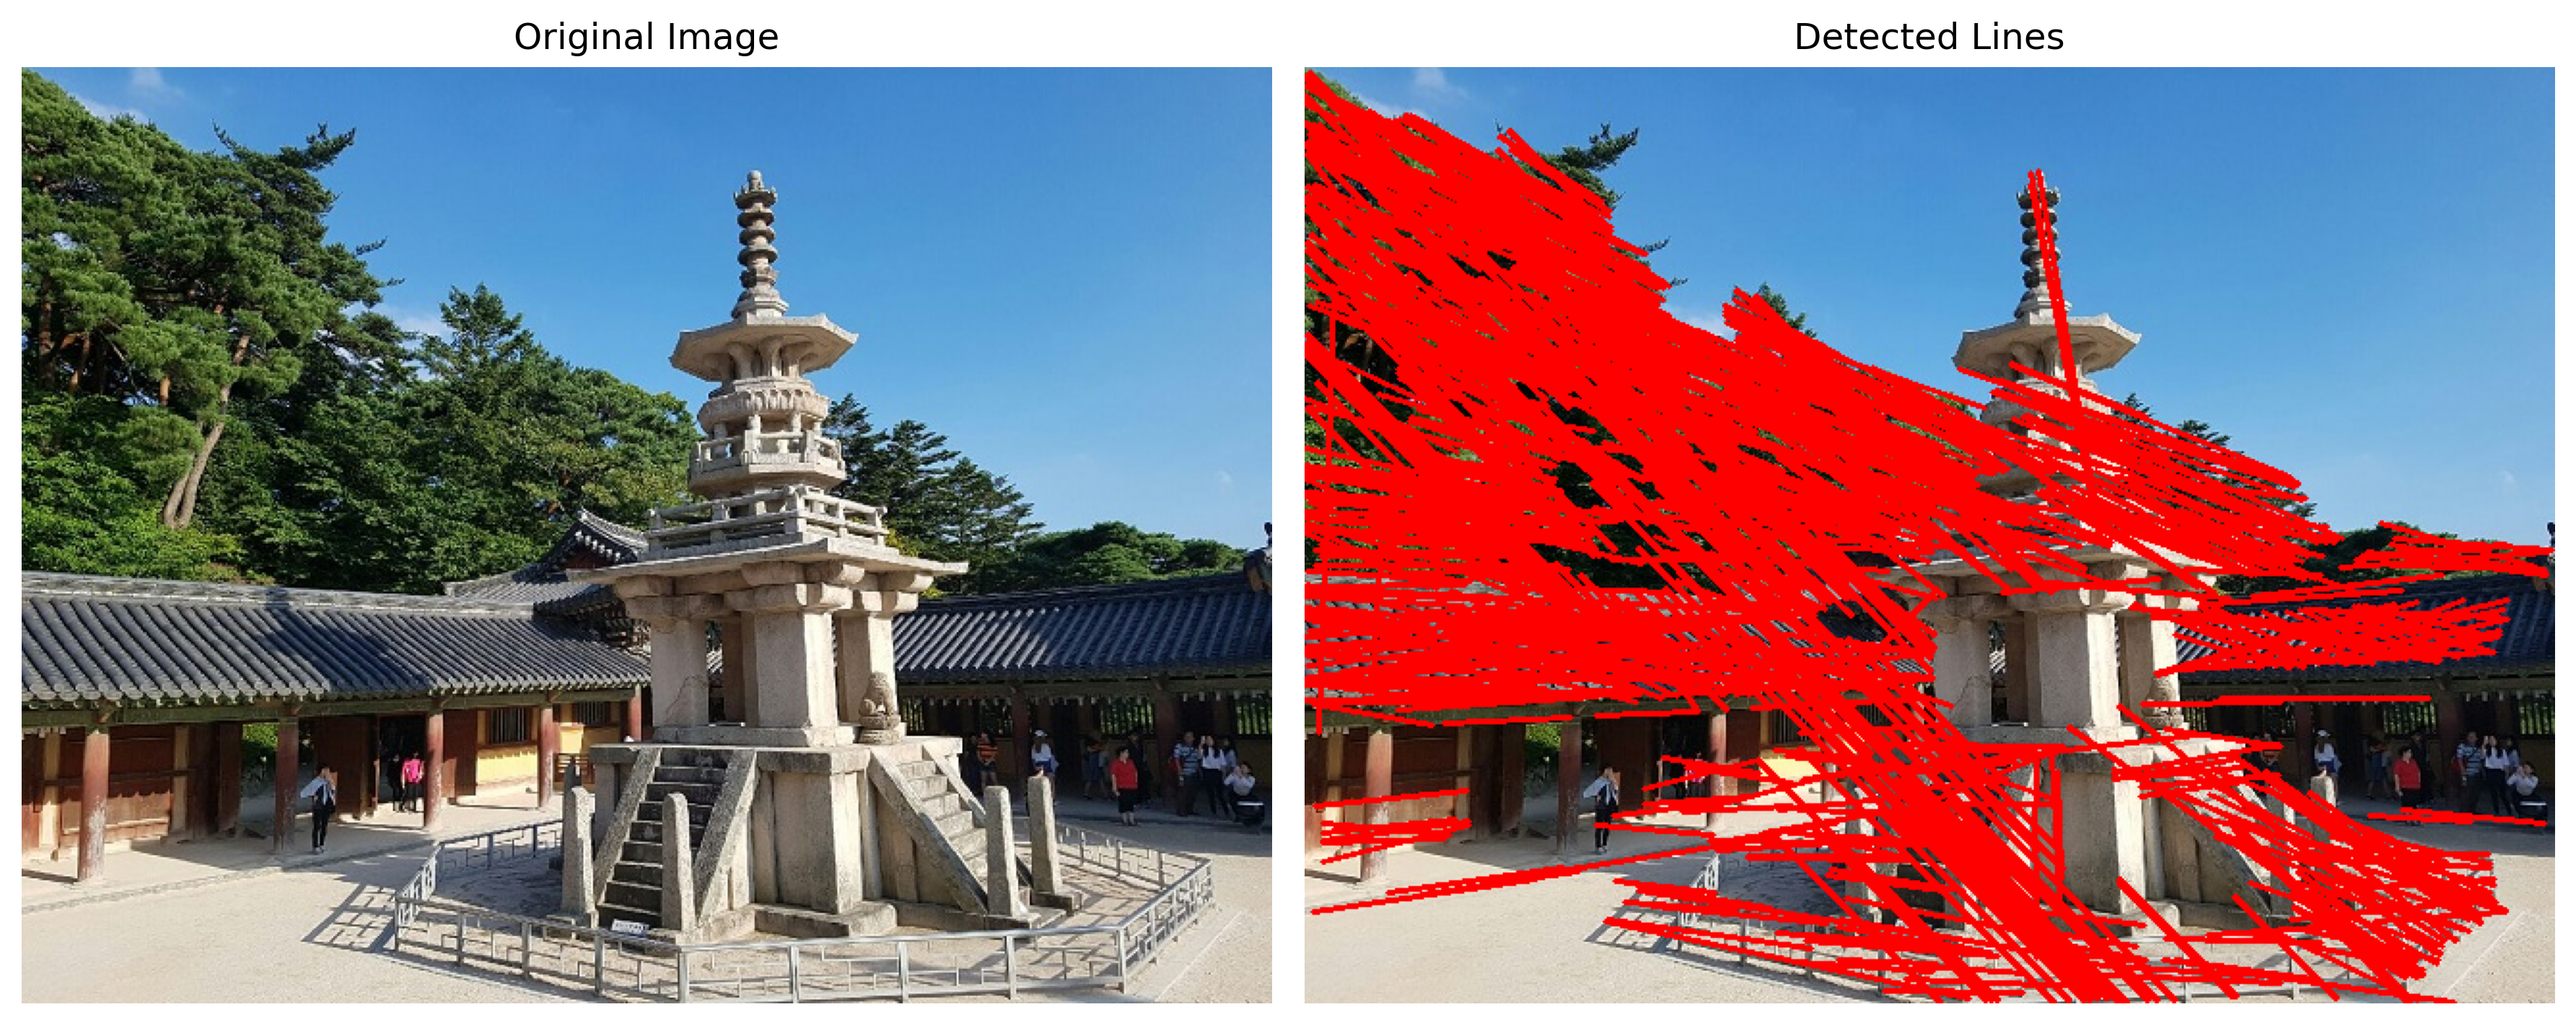
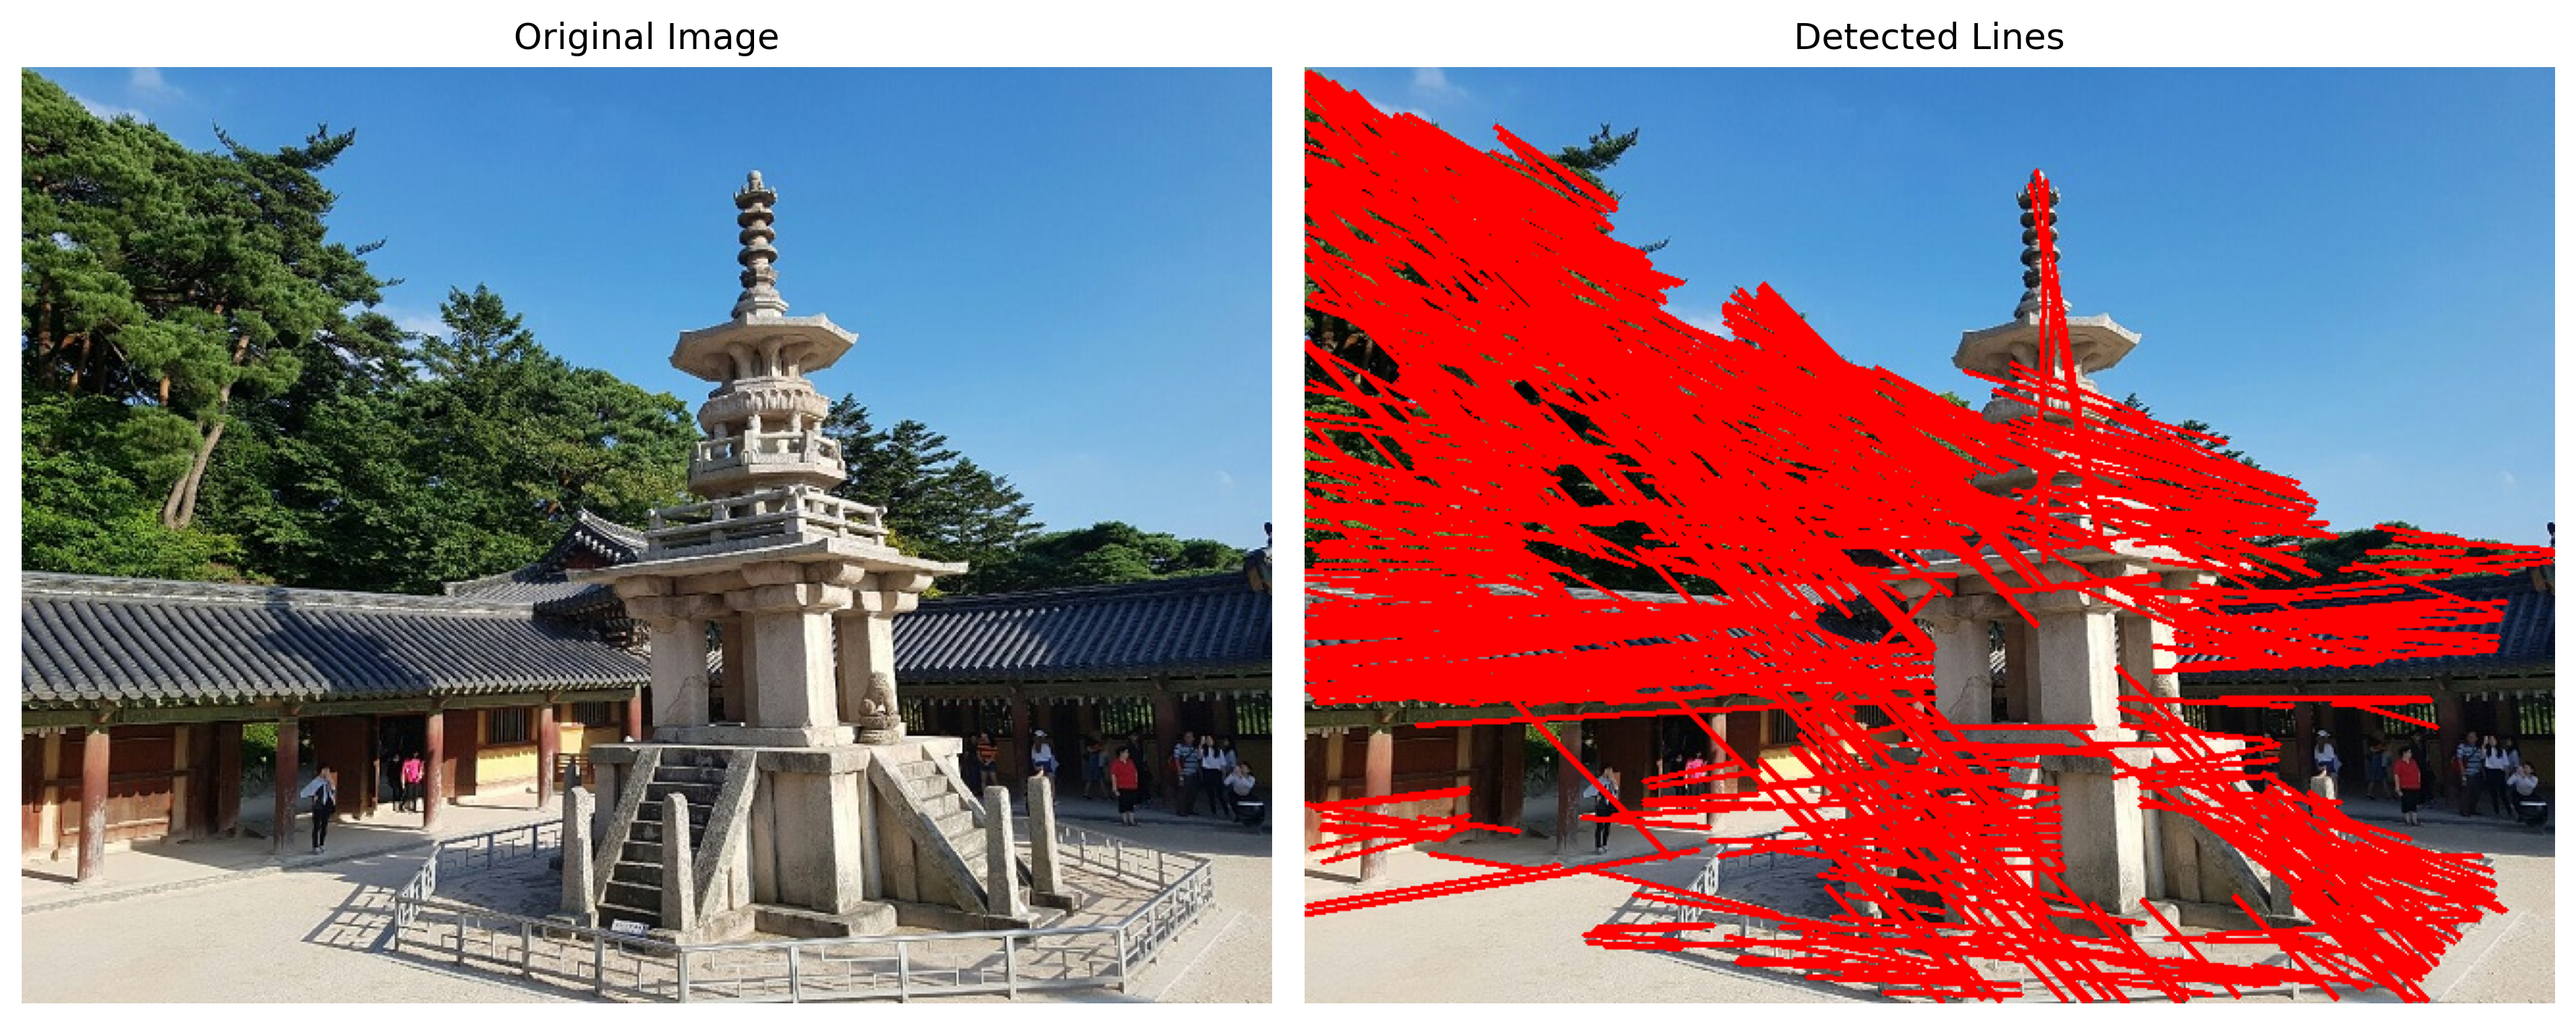
Update HoughLinesP parameters to improve line accuracy

Changed region(s): [[0.4975, 0.0619, 0.995, 0.9909], [0.4975, 0.867, 0.5597, 0.898], [0.7773, 0.1548, 0.8084, 0.1858]]

diff --git a/3주차_과제/02.CannyHough.py b/3주차_과제/02.CannyHough.py
@@ -27,12 +27,13 @@ img_line = img.copy()
 gray = cv.cvtColor(img, cv.COLOR_BGR2GRAY)
 
 # 2. Canny 에지 검출을 사용하여 에지 맵 생성 
-# 최소 임계값(100), 최대 임계값(200)을 넘어가는 얇고 선명한 테두리를 흰색 선으로 뽑아냅니다.
-edges = cv.Canny(gray, threshold1=100, threshold2=200)
+# 배경의 노이즈를 줄이되 주요 윤곽선을 놓치지 않도록 임계값을 (50, 150)으로 조절합니다.
+edges = cv.Canny(gray, threshold1=50, threshold2=150)
 
 # 3. 허프 변환을 사용하여 이미지에서 직선 검출
-# 확률적 허프 변환(HoughLinesP)으로, 간격 허용도(maxLineGap)와 최소 길이(minLineLength)에 맞는 직선의 좌표들을 얻어옵니다.
-lines = cv.HoughLinesP(edges, rho=1, theta=np.pi/180, threshold=100, minLineLength=50, maxLineGap=10)
+# 자잘한 선분(노이즈)을 배제하고 메인 형태의 긴 선분들을 정확히 잇기 위해 파라미터 성능을 개선합니다.
+# threshold(임계값: 200), minLineLength(최소 길이: 250), maxLineGap(끊어진 선분 사이 최대 허용 간격: 50) 설정
+lines = cv.HoughLinesP(edges, rho=1, theta=np.pi/180, threshold=200, minLineLength=250, maxLineGap=50)
 
 # 4. 검출된 직선을 원본 이미지에서 빨간색으로 표시
 # 직선이 단 1개라도 배열 데이터로 무사히 검출되었다면,

diff --git a/3주차_과제/README.md b/3주차_과제/README.md
@@ -134,12 +134,13 @@ img_line = img.copy()
 gray = cv.cvtColor(img, cv.COLOR_BGR2GRAY)
 
 # 2. Canny 에지 검출을 사용하여 에지 맵 생성 
-# 최소 임계값(100), 최대 임계값(200)을 넘어가는 얇고 선명한 테두리를 흰색 선으로 뽑아냅니다.
-edges = cv.Canny(gray, threshold1=100, threshold2=200)
+# 배경의 노이즈를 줄이되 주요 윤곽선을 놓치지 않도록 임계값을 (50, 150)으로 조절합니다.
+edges = cv.Canny(gray, threshold1=50, threshold2=150)
 
 # 3. 허프 변환을 사용하여 이미지에서 직선 검출
-# 확률적 허프 변환(HoughLinesP)으로, 간격 허용도(maxLineGap)와 최소 길이(minLineLength)에 맞는 직선의 좌표들을 얻어옵니다.
-lines = cv.HoughLinesP(edges, rho=1, theta=np.pi/180, threshold=100, minLineLength=50, maxLineGap=10)
+# 자잘한 선분(노이즈)을 배제하고 메인 형태의 긴 선분들을 정확히 잇기 위해 파라미터 성능을 개선합니다.
+# threshold(임계값: 200), minLineLength(최소 길이: 250), maxLineGap(끊어진 선분 사이 최대 허용 간격: 50) 설정
+lines = cv.HoughLinesP(edges, rho=1, theta=np.pi/180, threshold=200, minLineLength=250, maxLineGap=50)
 
 # 4. 검출된 직선을 원본 이미지에서 빨간색으로 표시
 # 직선이 단 1개라도 배열 데이터로 무사히 검출되었다면,
@@ -187,10 +188,10 @@ plt.close()
 ### 🔑 주요 코드 및 설명
 ```python
 # Canny 에지 검출 (threshold1, threshold2 파라미터 적용)
-edges = cv.Canny(gray, threshold1=100, threshold2=200)
+edges = cv.Canny(gray, threshold1=50, threshold2=150)
 
 # 허프 변환을 통한 직선 성분 추출
-lines = cv.HoughLinesP(edges, rho=1, theta=np.pi/180, threshold=100, minLineLength=50, maxLineGap=10)
+lines = cv.HoughLinesP(edges, rho=1, theta=np.pi/180, threshold=200, minLineLength=250, maxLineGap=50)
 ```
 * **`cv.Canny`**: 윤곽선을 깔끔하게 한 픽셀의 두께로 검출해 내는 함수입니다. 임계값(Threshold1, 2) 설정을 통해 확실한 강력한 경계만 추출하도록 조정합니다.
 * **`cv.HoughLinesP`**: 확률적 허프 변환 알고리즘으로 윤곽선 안에서 직선 성분을 빠르게 찾아 좌표를 도출합니다. `minLineLength`(최소 선 길이)과 `maxLineGap`(끊어진 선 허용 오차) 등을 적절하게 지정해서 좋은 품질의 직선들을 뽑아냅니다.
